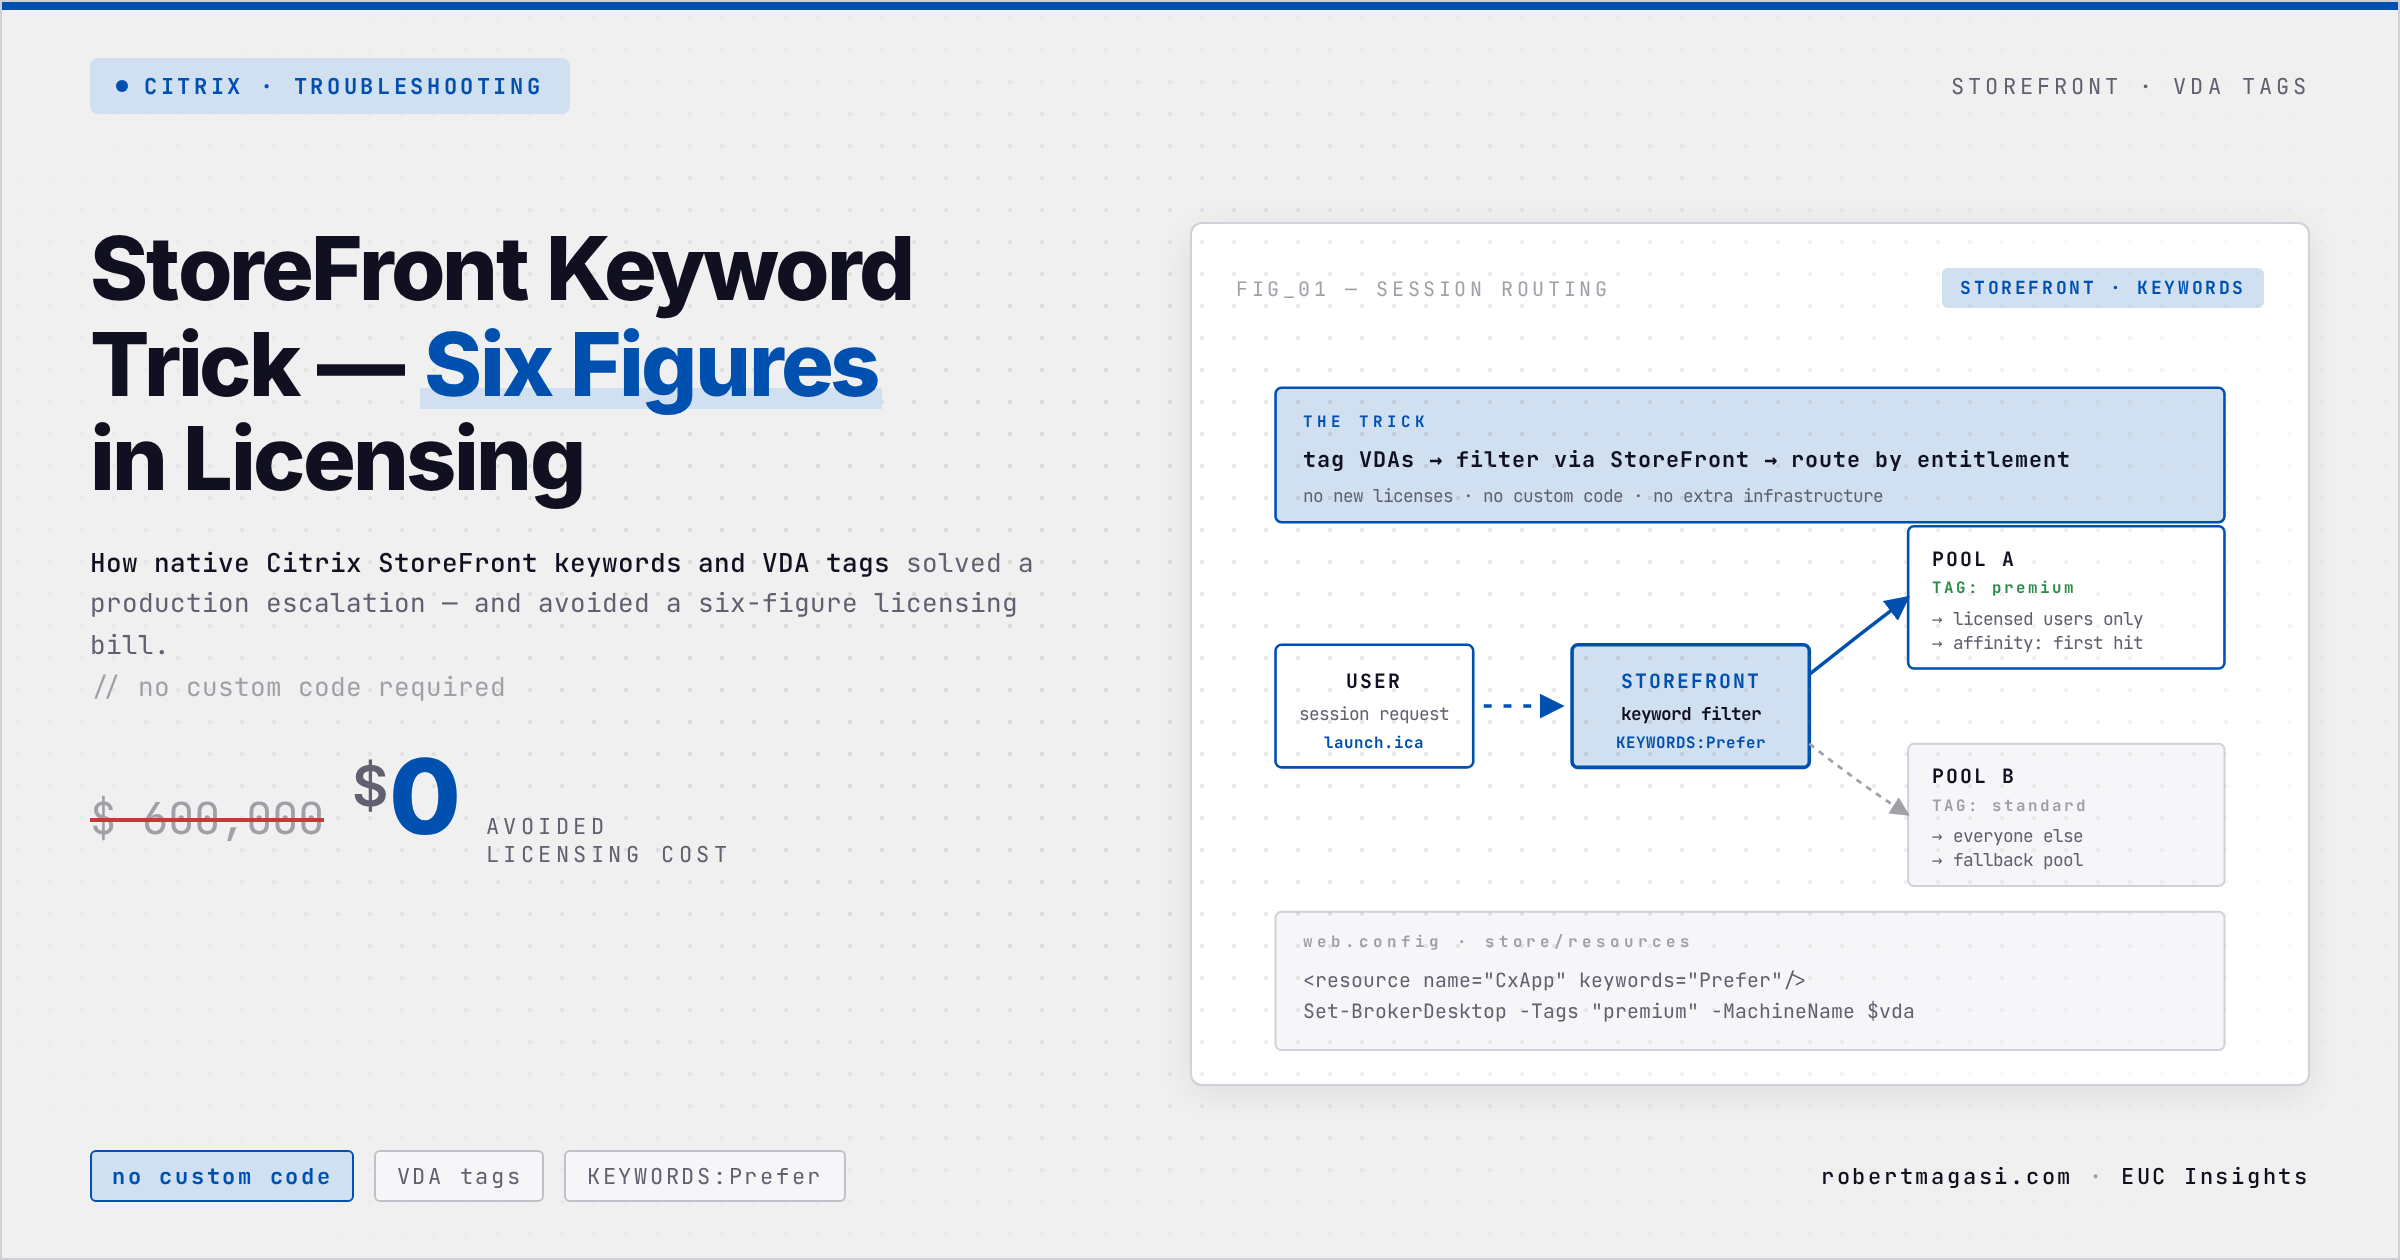
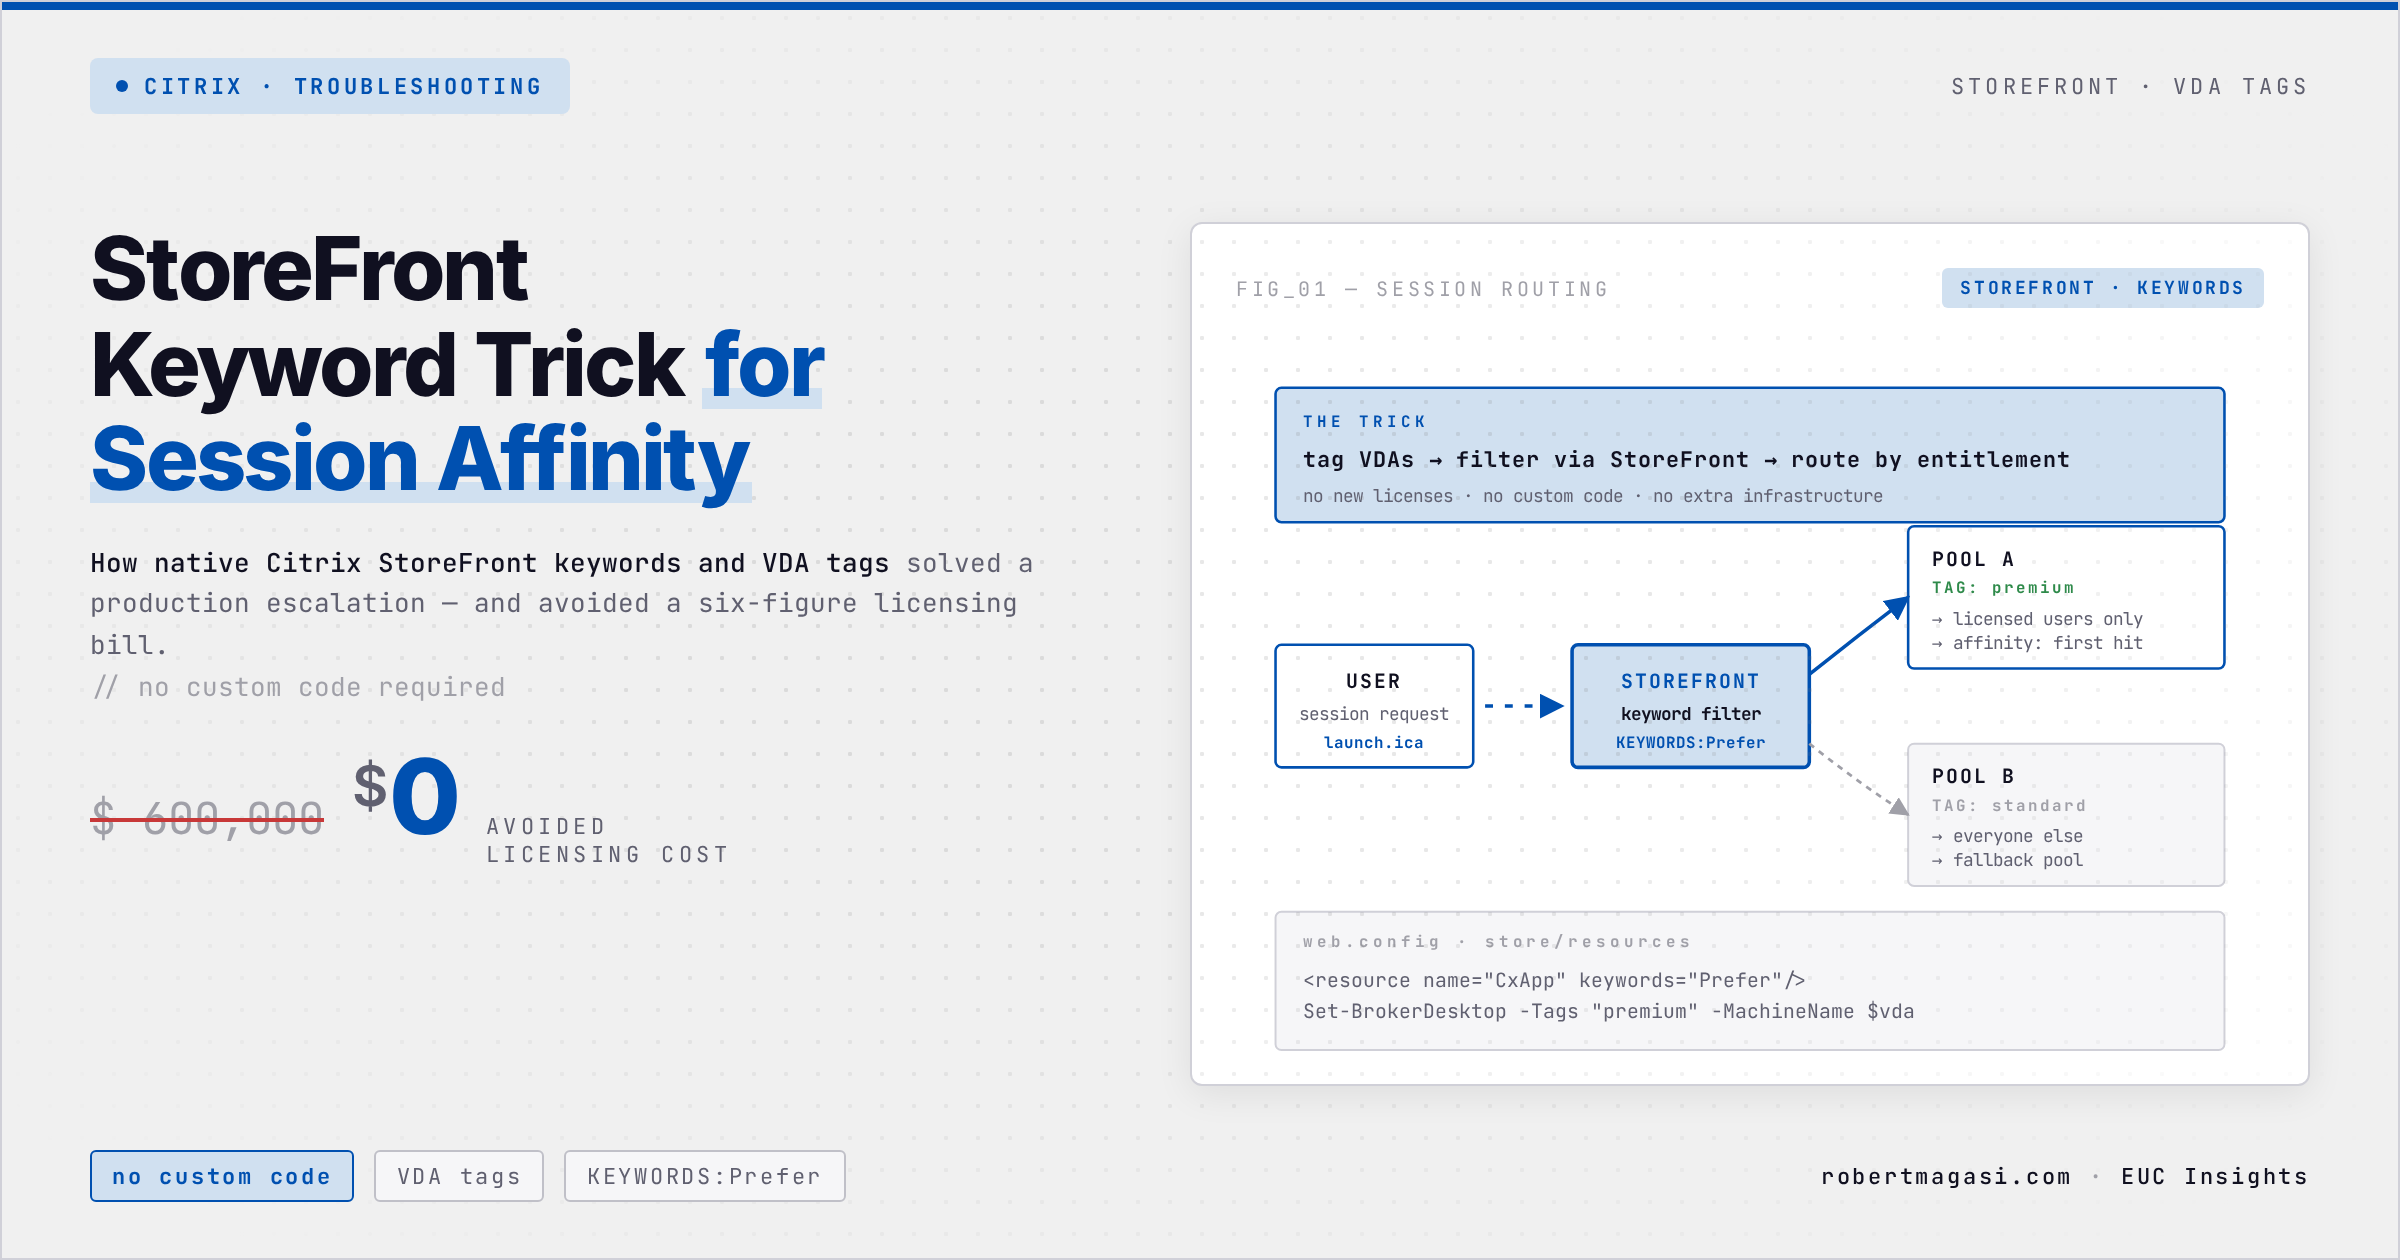
shorten post titles for home feed consistency + line-clamp CSS + refresh matching OG images

Changed region(s): [[0.0312, 0.1857, 0.4062, 0.4024]]

diff --git a/_includes/metadata-hook.html b/_includes/metadata-hook.html
@@ -36,6 +36,19 @@ span:has(> #pageviews)::before { content: ''; display: inline-block; width: 14px
   object-fit: cover;
   object-position: top center;
 }
+/* Clamp card title/description so cards are consistent height across posts */
+#post-list .card-wrapper.card .card-title {
+  display: -webkit-box;
+  -webkit-line-clamp: 2;
+  -webkit-box-orient: vertical;
+  overflow: hidden;
+}
+#post-list .card-wrapper.card .card-text.content {
+  display: -webkit-box;
+  -webkit-line-clamp: 2;
+  -webkit-box-orient: vertical;
+  overflow: hidden;
+}
 
 /* VS Code-style code block headers */
 div[class^="language-"] { border-top: 2px solid #0078d4 !important; }

diff --git a/_posts/2026-03-14-storefront-session-affinity-licensing.md b/_posts/2026-03-14-storefront-session-affinity-licensing.md
@@ -1,5 +1,5 @@
 ---
-title: "How a StoreFront Keyword Trick Saved a Customer Six Figures in Licensing Costs"
+title: "StoreFront Keyword Trick for Session Affinity"
 date: 2026-03-14 09:00:00 +0100
 categories: ["Citrix", "Troubleshooting"]
 tags: ["citrix", "storefront", "fslogix", "gpo", "licensing", "session-affinity"]
@@ -7,7 +7,7 @@ author: robert
 description: "How native Citrix StoreFront keywords and VDA tags solved a production escalation - and avoided a six-figure licensing bill. No custom code required."
 image:
   path: /assets/img/posts/og-storefront-licensing.png
-  alt: "How a StoreFront Keyword Trick Saved a Customer Six Figures in Licensing Costs"
+  alt: "StoreFront Keyword Trick for Session Affinity"
 ---
 
 I was already on the way home when my manager called. The customer was escalating - executive level, production disrupted, and the options on the table were custom development or a six-figure licensing spend. I put everything else aside the next day and started from scratch. What I found was a solution built entirely from native Citrix features that nobody had thought to combine.

diff --git a/_posts/2026-03-15-citrix-scheduled-reboot-script.md b/_posts/2026-03-15-citrix-scheduled-reboot-script.md
@@ -1,5 +1,5 @@
 ---
-title: "Automating Citrix Server Reboots - A Config-Driven PowerShell Script with User Notifications"
+title: "Automating Citrix Server Reboots"
 date: 2026-03-15 09:00:00 +0100
 author: robert
 categories: ["Citrix", "PowerShell"]
@@ -7,7 +7,7 @@ tags: ["citrix", "powershell", "automation", "reboot", "maintenance", "gpo", "br
 description: "Production-ready PowerShell script that automates Citrix server reboots with user notifications, maintenance mode, and CSV-driven config."
 image:
   path: /assets/img/posts/og-citrix-reboot-script.png
-  alt: "Automating Citrix Server Reboots - A Config-Driven PowerShell Script"
+  alt: "Automating Citrix Server Reboots"
 ---
 
 A customer needed Citrix servers rebooted on a specific schedule, with advance notifications going out at meaningful intervals - not the blunt built-in reboot schedule in Delivery Groups, which gives you no control over when and how users are warned. The requirement was clear: automated, predictable, zero manual intervention, with proper user communication. So I built it.

diff --git a/_posts/2026-03-15-citrix-session-shadowing-msra-workaround.md b/_posts/2026-03-15-citrix-session-shadowing-msra-workaround.md
@@ -1,5 +1,5 @@
 ---
-title: "Citrix Session Shadowing Broken After January 2026 Patches - Here's the Fix"
+title: "Citrix Session Shadowing — Post-Jan 2026 Fix"
 date: 2026-03-15 09:00:00 +0100
 author: robert
 categories: ["Citrix", "Troubleshooting"]
@@ -7,7 +7,7 @@ tags: ["citrix", "director", "shadowing", "msra", "gpo", "firewall", "remote-ass
 description: "Citrix Director shadowing broke after the January 2026 Microsoft patches. Here's the GPO-deployable msra.exe /offerra workaround - no third-party tools."
 image:
   path: /assets/img/posts/og-session-shadowing.png
-  alt: "Citrix Session Shadowing Broken After January 2026 Patches - Here's the Fix"
+  alt: "Citrix Session Shadowing — Post-Jan 2026 Fix"
 ---
 
 Citrix Director's built-in shadowing stopped working for many environments after the January 2026 Microsoft patches. I picked this up from the community before our ops team confirmed it internally - once it hits production, support engineers lose their primary tool for helping users mid-session. That's an immediate escalation.

diff --git a/_posts/2026-04-05-building-this-blog-with-claude-ai.md b/_posts/2026-04-05-building-this-blog-with-claude-ai.md
@@ -1,5 +1,5 @@
 ---
-title: "Building This Blog With Claude AI - How It Actually Went"
+title: "Building This Blog With Claude AI"
 date: 2026-04-05 09:00:00 +0200
 author: robert
 categories: ["Meta", "AI"]
